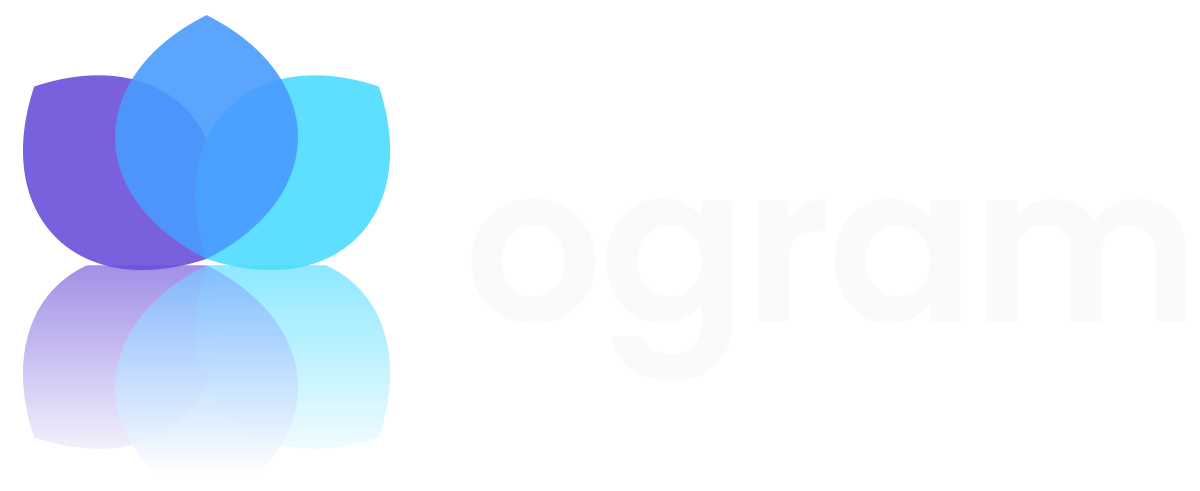
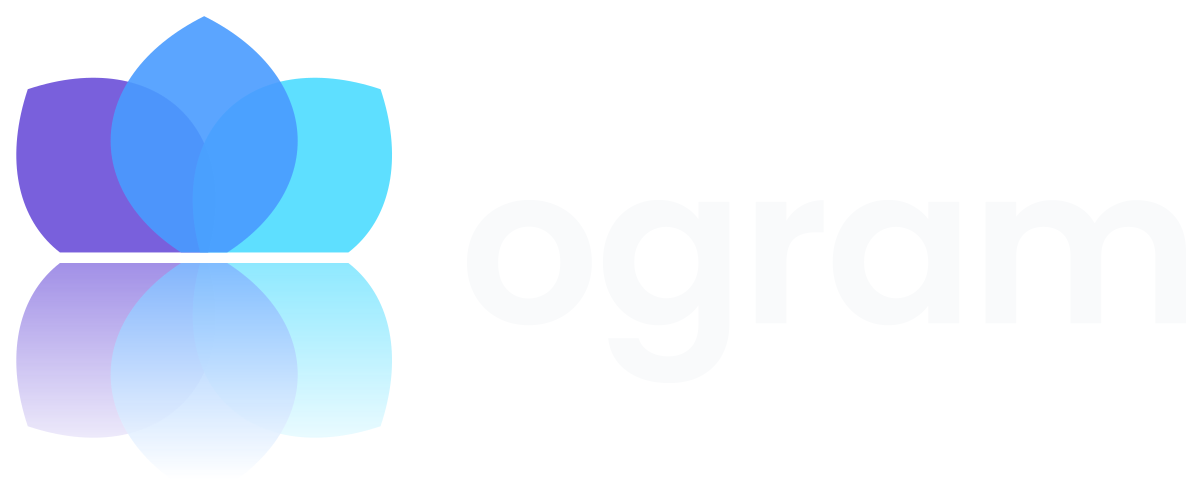
Update ogram brand kit

diff --git a/ogram/README.md b/ogram/README.md
@@ -1,6 +1,6 @@
 # ogram brand kit
 
-ogram is the photo gallery app in the Odraz family. Its mark is a lotus: three petals in Odraz purple, blue and aqua, mirrored in a fading reflection like the Odraz logo. It follows the Odraz brandbook for colors, type (Poppins) and usage rules.
+ogram is the photo gallery app in the Odraz family. Its mark is a lotus: three petals in Odraz purple, blue and aqua, standing on a flat waterline with a thin gap above a fading reflection, like the Odraz and odrive logos. It follows the Odraz brandbook for colors, type (Poppins) and usage rules.
 
 ## svg/ (masters, transparent unless noted)
 - `ogram-mark.svg`: the mark (petals + reflection)
